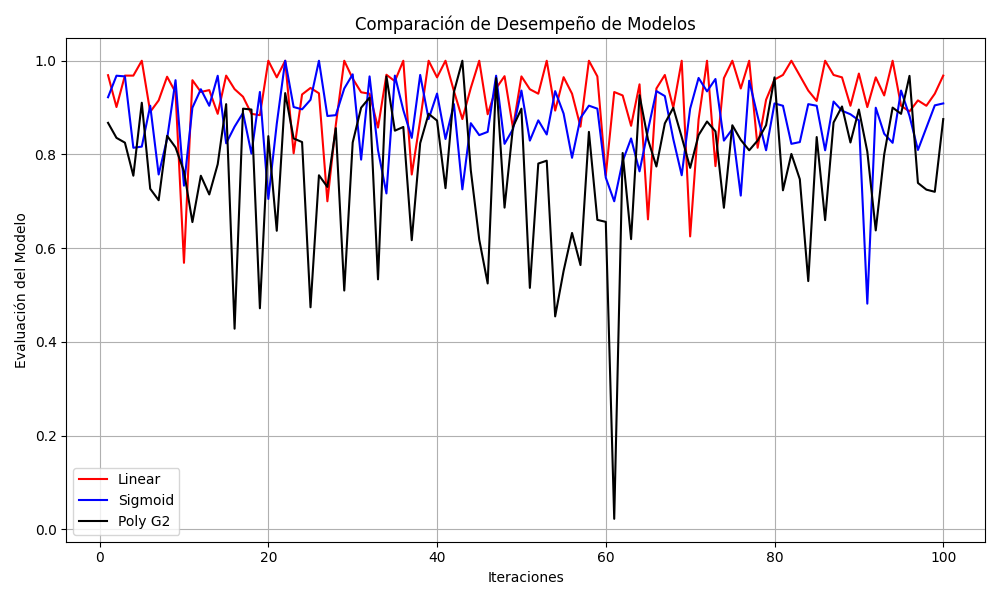
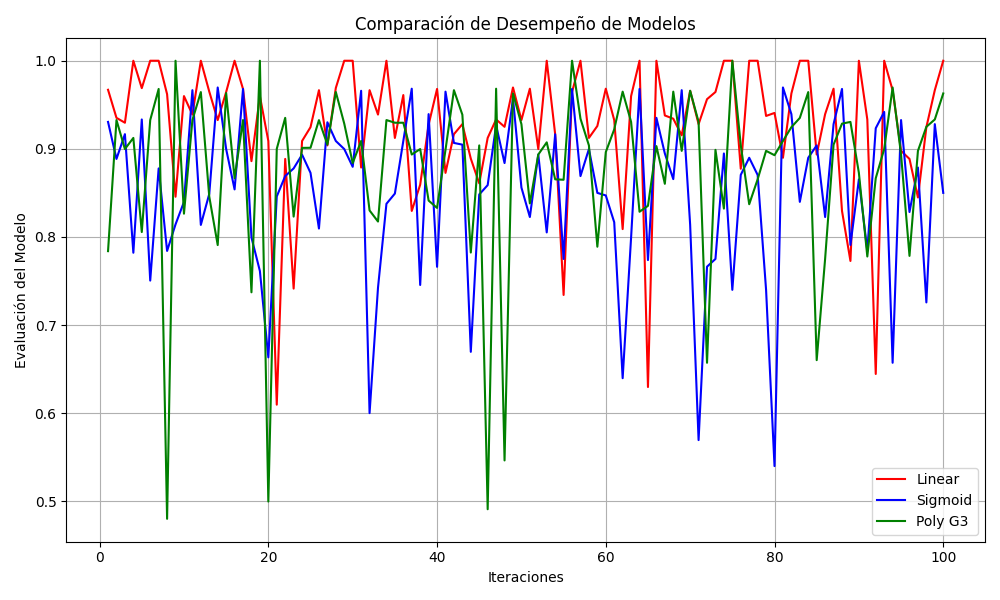
PUSH

diff --git a/main.py b/main.py
@@ -12,6 +12,6 @@ if __name__ == "__main__":
     F1Poly4, AccPoly4, CMPoly4 = TestingModel(model='poly4')
 
     GraficoComparativo(F1Linear, F1Sigmoid, SaveFig="F1Score",
-                       MetricModel3=None, MetricModel4=None, MetricModel5=None)
+                       MetricModel3=F1Poly3, MetricModel4=None, MetricModel5=None)
     GraficoComparativo(AccLinear, AccSigmoid, SaveFig="Accuracy",
-                       MetricModel3=None, MetricModel4=None, MetricModel5=None)
+                       MetricModel3=AccPoly3, MetricModel4=None, MetricModel5=None)

diff --git a/Test.py b/Test.py
@@ -21,10 +21,10 @@ def TestingModel(NumIters=1e+2, model="linear"):
         x_train, y_train, x_test, y_test = ExtractDataIris(0.2)
         x_train, x_test = NormalizeFeatures(x_train, x_test)
 
-        svm_lineal = TypeModel[model]
-        svm_lineal.fit(x_train, y_train)
+        SVModel = TypeModel[model]
+        SVModel.fit(x_train, y_train)
 
-        CM, F1, ACC = Metricas(x_test, y_test, model=svm_lineal)
+        CM, F1, ACC = Metricas(x_test, y_test, model=SVModel)
 
         F1History.append(F1)
         AccHistoty.append(ACC)
